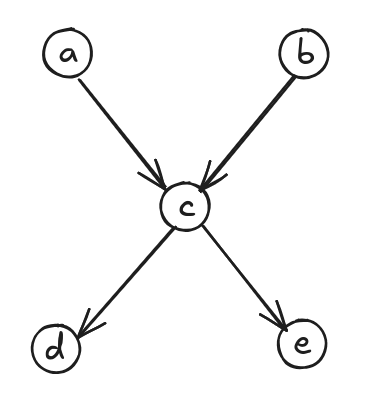
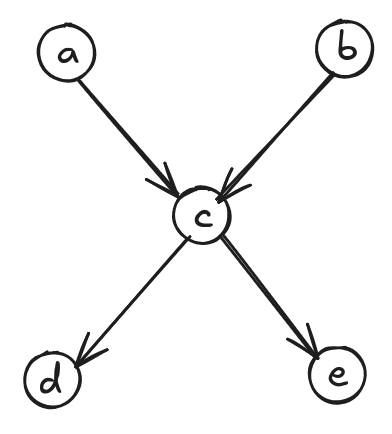
dag-width: Fix images

diff --git a/pages/dag-width.md b/pages/dag-width.md
@@ -53,7 +53,7 @@ What is the max antichain size of the DAG below?
 
 It's clearly 2: either $\{a, b\}$ or $\{d, e\}$ work. But look at the corresponding chain decomposition:
 
-![Figure 6: Chain decomp of the DAG in Figure 5. The max antichain is highlighted in red.](assets/images/dag-width-graph-2.png)
+![Figure 6: Chain decomp of the DAG in Figure 5. The max antichain is highlighted in red.](assets/images/dag-width-graph-2-chain-decomp.png)
 
 It may seem counterintuitive at first since we have chains $a \to c \to d$ and $b \to e$, but $b$ and $e$ are not directly connected! However, we have to remember that Dilworth's theorem talks about partially ordered sets, not DAGs. Therefore, the graph we actually care about is the transitive closure graph:
 
